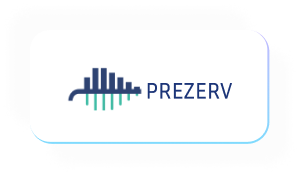
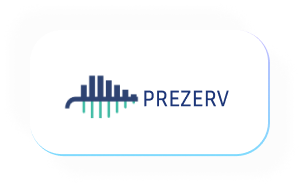
commit

Changed region(s): [[0.21, 0.3736, 0.78, 0.6322], [0.12, 0.3161, 0.9, 0.8621], [0.87, 0.2011, 0.9, 0.2874]]

diff --git a/app/components/homePage/clients.js b/app/components/homePage/clients.js
@@ -4,13 +4,14 @@ import Marquee from 'react-fast-marquee';
 const Clients = () => {
   const clientLogos = [
     { name: 'AIKYNF', logo: '/client/AIKYINE.png' },
-    { name: 'Prezerv', logo: '/client/Prezerv.png' },
     { name: 'INTULOGIC', logo: '/client/intulogic.svg' },
+    { name: 'Sparks Global', logo: '/client/Prezerv.svg' },
     { name: 'NALAM', logo: '/client/nalam.svg' },
     { name: 'MTM', logo: '/client/mtm.svg' },
     { name: 'STOREFRIES', logo: '/client/storefries.svg' },
     { name: 'EXTRA1', logo: '/client/webSign.png' },
     { name: 'EXTRA2', logo: '/client/sparksGlobal.svg' },
+    { name: 'Prezerv', logo: '/client/Prezerv.png' },
     
   ];
 

diff --git a/app/launch-modes-andorid/page.js b/app/launch-modes-andorid/page.js
@@ -1,6 +1,6 @@
 import React from 'react'
 import Blog1 from '../components/launchModesAndorid/blog1'
-import Faqs1 from '../components/FAQsforBlog/faqs2'
+import Faqs1 from '../components/FAQsforBlog/faqs1'
 
 const page = () => {
   return (
